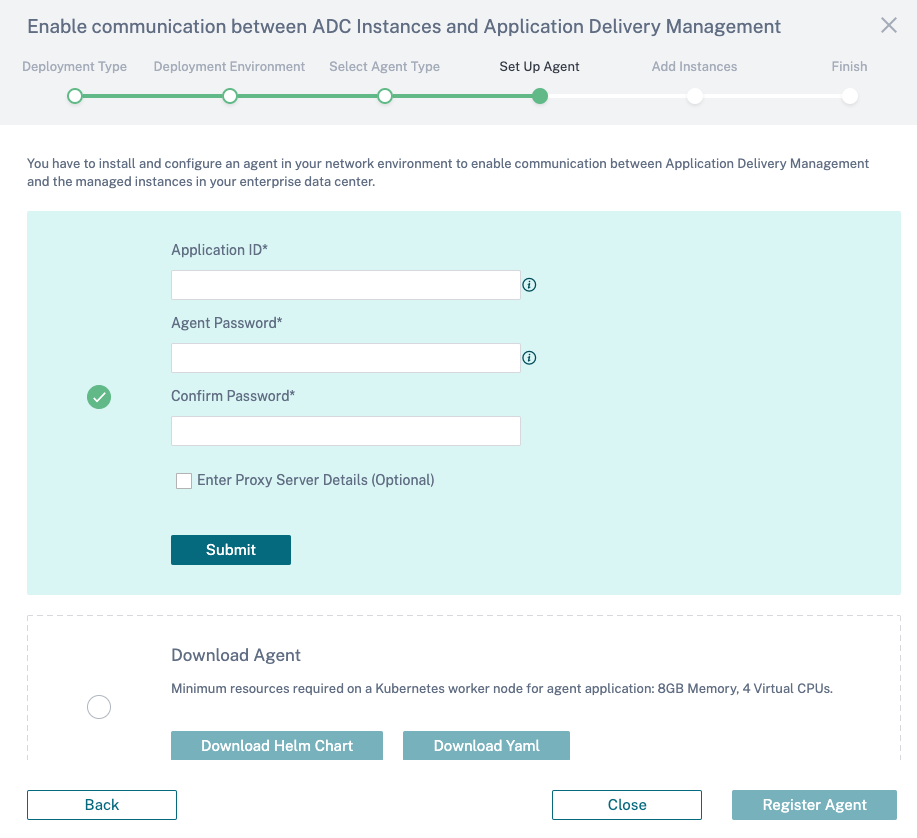
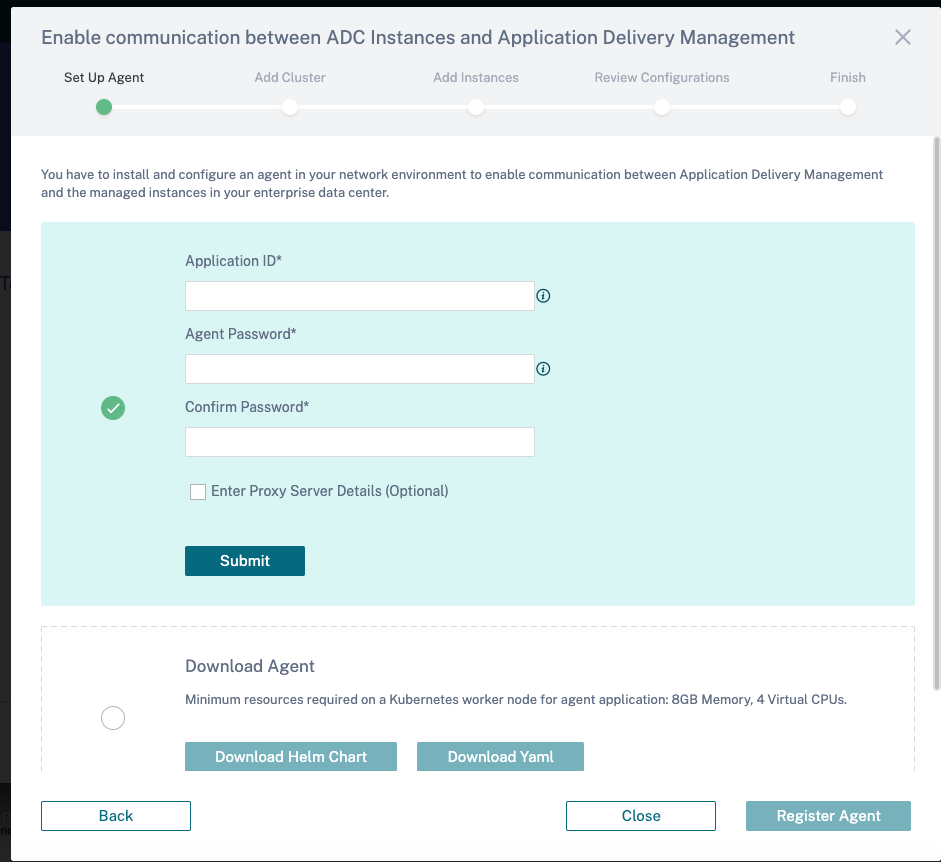
Updated the doc with new onboarding flow

diff --git a/servicegraph/README.md b/servicegraph/README.md
@@ -7,25 +7,23 @@ The aim of this example is to help visualising the request flow between differen
 
    [Prerequisites](#prerequisite)
 
-  A. [Deploy and register Citrix ADM Agent](#deploy-register-citrix-adm-agent)
+  A. [Service Graph Onboarding](#onboarding)
 
-  B. [Add Cluster in Citrix ADM](#register-adm-agent)
+  B. [Create Kubernetes Secret using Citrix ADM credentials ](#create-secret)
 
-  C. [Configuration for service graph in ADM](#config-adm)
+  C. [Deploy Netflix application on Kubernetes Cluster ](#deploy-application)
 
-  D. [Deploy Netflix application on Kubernetes Cluster ](#deploy-application)
+  D. [Citrix Cloud Native Dual Tier Topology ](#deploy-citrix-cloud-native-stack)
 
-  E. [Citrix Cloud Native Dual Tier Topology ](#deploy-citrix-cloud-native-stack)
+  E. [Send Traffic](#send-traffic)
 
-  F. [Send Traffic](#send-traffic)
+  F. [Visualize Servicegraph in Citrix ADM](#servicegraph)
 
-  G. [Visualize Servicegraph in Citrix ADM](#servicegraph)
+  G. [Tracing](#trace)
 
-  H. [Tracing](#trace)
+  H. [Clean Up the deployment](#clean-up)
 
-  I. [Clean Up the deployment](#clean-up)
-
-  J. [Debugging](#debugging)
+  I. [Debugging](#debugging)
 
 ## <a name="prerequisite">Prerequisites</a>
  - Citrix ADM. To start using Citrix ADM, you must first create a Citrix Cloud company account or join an existing one that someone else in your company has created. For detailed processes and instructions on how to proceed, see [Signing Up for Citrix Cloud](https://docs.citrix.com/en-us/citrix-cloud/overview/signing-up-for-citrix-cloud/signing-up-for-citrix-cloud). 
@@ -33,10 +31,10 @@ The aim of this example is to help visualising the request flow between differen
     To manage Citrix ADM with an Express account, follow [this](https://docs.citrix.com/en-us/citrix-application-delivery-management-service/getting-started.html#install-an-agent-as-a-microservice).
 
  - The [Kubernetes](https://kubernetes.io/) version 1.16 or later.
- - The Citrix ADC VPX with Version 13.0-76.31 or later.
+ - The Citrix ADC VPX with Version 13.0-76.29 or later.
  - The Citrix ADC VPX and the Kubernetes Cluster should be in same network.
 
-## <a name="deploy-register-citrix-adm-agent">A) Deploy and register Citrix ADM Agent</a>
+## <a name="onboarding">A) Service Graph Onboarding</a>
 You can deploy a Citrix ADM agent as a microservice in the Kubernetes cluster to view service graph in Citrix ADM. 
 
 Follow below steps:
@@ -59,21 +57,23 @@ Follow below steps:
 
     ![](images/choose-environment.png)
 
- 6. Choose `As a microservice` and click `Next`
+ 6. Choose `Microservices` and click `Next`
 
-    ![](images/select-agent-type.png)
+    ![](images/application-type.png)
 
- 7. Specify the following parameters:
+ 7.  In the Download Agent Microservice page, specify the following parameters:
 
-    a. **Application ID** : A string id to define the service for the agent in the Kubernetes cluster and distinguish 		this agent from other agents in the same cluster. Use lowercase alphanumeric characters only. Uppercase characters are not supported.
+      a. **Application ID** : A string id to define the service for the agent in the Kubernetes cluster and distinguish 		this agent from other agents in the same cluster. Use lowercase alphanumeric characters only. Uppercase characters are not supported.
 
-	b. **Agent Password** – Specify a password for ADM agent. This passoword will be used on onboarding CPX to ADM service through the agent.
+      b. **Agent Password** – Specify a password for ADM agent. This passoword will be used on onboarding CPX to ADM service through the agent.
 
-	c. **Confirm Password** – Specify the same password for confirmation.
+      c. **Confirm Password** – Specify the same password for confirmation.
+       
+      **Note**:You must not use the default password (nsroot).
 	
-    d. **Submit**
+      d. **Submit**
 
-    **NOTE** You can save Application ID and Agent Password, this will be used while creating secret and updating variables in the YAML file.
+      **NOTE** You can save Application ID and Agent Password, this will be used while creating secret and updating variables in the YAML file. 
 
       ![](images/agent-details.png)
 
@@ -81,27 +81,27 @@ Follow below steps:
 
     ![](images/download-agent-file.png)
 
- 9. Click **Close**.
+ 9. In the Kubernetes main mode, save the downloaded YAML file and run the following command to register the agent:
 
-    On the Kubernetes cluster:
+         kubectl create -f < YAML file >
+   
+      For example, kubectl create -f testing.yaml
+    
+      ![](images/agent-install.png) 
 
-        kubectl create -f <yaml file>
+      The agent is successfully created.
 
-    For example, `kubectl create -f myagent.yaml`
+ 10. Click **Register Agent**.
+   
+   ![](images/download-agent-file.png)
+ 
+    The page loads for a few seconds and displays the registered agent.
 
-    The agent is successfully created.
+ 11. Ensure if the agent is present in the list and click **Next**.
+  
+   ![](images/agent-list.png)
 
-    In Citrix ADM, navigate to Networks > Agents to see the agent status.
-
-    ![](images/agent-status.png)
-
-## <a name="register-adm-agent"> B) Add Cluster in Citrix ADM</a>
-
-To add cluster using Agent, follow the below steps:
-
- 1. Navigate to `Orchestration > Kubernetes > Cluster` in Citrix ADM. The Clusters page is displayed.
- 2. Click `Add`.
- 3. In the Add Cluster page, specify the following parameters:
+ 12. You must register the cluster. Click Add More Clusters and specify the following parameters::
 
       a. **Name** - Specify a name of your choice.
 
@@ -115,82 +115,70 @@ To add cluster using Agent, follow the below steps:
 		
       c. **Authentication Token** - Specify the authentication token. The authentication token is required to validate access for communication between Kubernetes cluster and Citrix ADM.
 
-      To generate an authentication token; 
-      On the Kubernetes master node:
+         To generate an authentication token; 
+         
+         On the Kubernetes master node:
 
-      i. Use the following YAML to create a service account:
+       i. Use the following YAML to create a service account:
 				
-        apiVersion: v1
-        kind: ServiceAccount
-        metadata:
-	        name: citrixadm-sa
+               apiVersion: v1
+               kind: ServiceAccount
+               metadata:
+	               name: citrixadm-sa
 
-      ii. Run `kubectl create -f <yaml file>`. The service account is created.
+       ii. Run `kubectl create -f <yaml file>`. The service account is created.
 
-      iii. Run `kubectl create clusterrolebinding clusterBinding --clusterrole=cluster-admin --serviceaccount=default:citrixadm-sa` to bind the cluster role to service account.
+       iii. Run `kubectl create clusterrolebinding clusterBinding --clusterrole=cluster-admin --serviceaccount=default:citrixadm-sa` to bind the cluster role to service account.
 
-      The service account now has the cluster-wide access. A token is automatically generated while creating the service account.
+            The service account now has the cluster-wide access. A token is automatically generated while creating the service account.
 
-      iv. Run `kubectl describe sa citrixadm-sa` to view the token.
+       iv. Run `kubectl describe sa citrixadm-sa` to view the token.
 
       ![](images/describe-sa.png)
 
-      v. To get the secret string, run `kubectl describe secret <token-name>`.
+       v. To get the secret string, run `kubectl describe secret <token-name>`.
 
       ![](images/describe-token.png)
 
-    d. Select the **agent** from the list.
+      d. Select the **agent** from the list.
     
-    **To get the agent IP**
+      e. Click **Create**.
 
-    Use `Application ID` mentioned in `Step A.7.a` to list the service IP for Citrix Agent.
-  
-        kubectl get svc <application-id> -o wide
-    
-    The IP mentioned under `Cluster-IP` is the service IP for the agent. Alternatively, you can navigate to `Networks > Agents` in Citrix ADM to view the agent IP.
+   ![](images/add-cluster.png)
 
-    e. Click **Create**.
+13. In the Clusters page, the cluster information is displayed. Click **Next**.
 
-     ![](images/addcluster.png)
+   ![](images/cluster-list.png)
+
+14. Configure the CPX and VPX instances, and click **Next**.
+
+   ![](images/vpx-cpx-list.png)
+
+   **NOTE** You can deploy Citrix ADCs in Dual Tier topology as mentioned in [Citrix Cloud Native Dual Tier Topology ](#deploy-citrix-cloud-native-stack)   
+
+15. Click **Next** to auto-license the virtual servers and to enable detailed web and TCP transactions.
+
+   ![](images/auto-license.png)
+
+16. The configurations are complete. Select **Service Graph** and click **Done**.
+
+   ![](images/final-page-onboarding.png)
 
 
-### Create Kubernetes Secret using Citrix ADM credentials
+## <a name="create-secret"> B) Create Kubernetes Secret using Citrix ADM credentials </a>
 
   To auto register Citrix ADC CPX in ADM for obtaining [servicegraph](https://docs.citrix.com/en-us/citrix-application-delivery-management-service/application-analytics-and-management/service-graph.html), you will have to create a Kubernetes secret using ADM Agent credentials. Create a Kubernetes secret with password you have provided during `Step A.7.b` using the following command:
 
     kubectl create secret generic admlogin --from-literal=username=nsroot --from-literal=password=<adm-password>
 
-## <a name="config-adm"> C) Configuration for service graph in ADM </a>
 
-After you add Kubernetes cluster in Citrix ADM, you must ensure to auto-select virtual servers for licensing. CPX virtual servers must be licensed to display data in service graph. To auto-select virtual servers:
-
- 1. Navigate to Accounts > Subscriptions in Citrix ADM.
-
- 2. Under Virtual Server License Summary, enable Auto-select Virtual Servers.
-
-    ![](images/auto-license.png)
-
-   After enable the auto-select virtual servers, change the Web Transaction Settings and TCP Transactions Settings to All.
-
-  1. Navigate to `Analytics > Settings`.  
-
-  2. The Settings page is displayed.
-
-  3. Click **Enable Features for Analytics**.
-
-  4. Under **Web Transaction Settings**, select **All**.
- 
-  5. Under **TCP Transactions Settings**, select **All**.
-
-      ![](images/tcp-web-settings.png)
-
-## <a name="deploy-application"> D) Deploy Netflix application on Kubernetes Cluster </a>
+## <a name="deploy-application"> C) Deploy Netflix application on Kubernetes Cluster </a>
 
 Run following to deploy Netflix application on your Kubernetes Cluster
 
     kubectl create -f https://raw.githubusercontent.com/citrix/cloud-native-getting-started/master/servicegraph/manifest/netflix.yaml
 
-## <a name="deploy-citrix-cloud-native-stack"> E) Citrix Cloud Native Dual Tier Topology </a>
+## <a name="deploy-citrix-cloud-native-stack"> D) Citrix Cloud Native Dual Tier Topology </a>
 
   Let's understand the Netflix application topology having Citrix ADC to deliver best user experience in North-South and East-West Load balancing.
 
@@ -214,7 +202,9 @@ Lets deploy the Netflix application in Service mesh lite deployment where
 
  - Tier 2 ADC - CPX to route East-West traffic from Netflix application.
 
-### Add Tier 1 ADC in Citrix ADM
+## <a name="add-tier1-adc-in-adm"> Add Tier 1 ADC in Citrix ADM </a>
+
+You can skip this step if you have added VPX in Step **A.14**.
 
 Citrix ADC VPX is used to ingress North-South traffic. To add Citrix ADC VPX in ADM follow below steps:
 
@@ -244,15 +234,17 @@ Citrix ADC VPX is used to ingress North-South traffic. To add Citrix ADC VPX in 
 
     h. **SNMP Version:** Select either SNMPv2 or SNMPv3 and do the following:
 
-    i. If you select SNMPv2, specify the **Community name** for authentication.
+      i. If you select SNMPv2, specify the **Community name** for authentication.
 
-    ii. If you select SNMPv3, specify the **Security Name** and **Security Level**. Based on the **security level**, select the **Authentication Type** and **Privacy Type**.
+      ii. If you select SNMPv3, specify the **Security Name** and **Security Level**. Based on the **security level**, select the **Authentication Type** and **Privacy Type**.
 
       ![](images/profile-snmp.png)
 
-#### To configure the Tier 1 ADC VPX using Citrix Ingress Controller (CIC):
+### To configure the Tier 1 ADC VPX using Citrix Ingress Controller (CIC):
 
-The Citrix ADC appliance needs to have system user account (non-default) with certain privileges so that Citrix ingress controller (CIC) can configure the Citrix ADC VPX. For instructions to create the system user account on Citrix ADC, see [Create System User Account for CIC in Citrix ADC](#create-system-user-account-for-cic-in-citrix-adc).
+The Citrix ADC appliance needs to have system user account (non-default) with certain privileges so that Citrix ingress controller (CIC) can configure the Citrix ADC VPX. 
+
+For instructions to create the system user account on Citrix ADC, see [Create System User Account for CIC in Citrix ADC](#create-system-user-account-for-cic-in-citrix-adc).
 
 Create a Kubernetes secret for the user name and password using the following command:
 
@@ -269,7 +261,14 @@ Update `NS_IP` under the deployment name `adc-netflix-cic`  `citrix-cloud-native
 
 **Note** Citrix ADC VPX and Kubernetes Cluster must be deployed in same network.
 
-### Deploying Tier-2 ADC CPX -
+**Update**  `server` in `endpoint` under `NS_ANALYTICS_CONFIG` with the Citrix ADM Agent POD IP in config map `adc-netflix-cic-configmap` in `citrix-cloud-native.yaml` file .
+
+To get the Citrix ADM Agent Pod IP use below command.
+
+    kubectl get endpoints <Application-id> -o wide
+
+
+## Deploying Tier-2 ADC CPX -
 
 Citrix ADC CPX is used to route North-South traffic from Tier 1 ADC to frontend Netflix microservice application and route East-West traffic from Netflix microservices  
 
@@ -287,24 +286,10 @@ The IP mentioned under `Cluster-IP` is the service IP for the agent and use this
 
   iii. "LS_IP"
 
+**NOTE** Make sure you have created Kubernetes secret as mentioned in [Create Kubernetes Secret using Citrix ADM credentials](#create-secret)
 
-Update Fingerprint in below environment variable in `citrix-cloud-native.yaml` 
- 
-  i. "NS_MGMT_FINGER_PRINT"
 
-#### To get the `Citrix ADM agent Fingerprint`
-
-Navigate to `Networks > Agents` in Citrix ADM. Select the Agent from the list and click the `View Fingerprint`.
-
-   ![](images/fingerprint.png)
-
-**Update**  `server` in `endpoint` under `NS_ANALYTICS_CONFIG` with the Citrix ADM Agent POD IP in config map `adc-netflix-cic-configmap` in `citrix-cloud-native.yaml` file .
-
-To get the Citrix ADM Agent Pod IP use below command.
-
-    kubectl get endpoints <Application-id> -o wide
-
-After updating above environment variables, deploy CIC for Tier-1 VPX and tier-2 CPX using
+After updating all the environment variables, deploy CIC for Tier-1 VPX and tier-2 CPX using
 
     kubectl apply -f citrix-cloud-native.yaml
 
@@ -322,7 +307,7 @@ After updating above environment variables, deploy CIC for Tier-1 VPX and tier-2
     kubectl create -f https://raw.githubusercontent.com/citrix/cloud-native-getting-started/master/servicegraph/manifest/smlite_services.yaml
 
 
-## <a name="send-traffic"> F) Send Traffic </a>
+## <a name="send-traffic"> E) Send Traffic </a>
   Send traffic using helper script
 
     wget https://raw.githubusercontent.com/citrix/cloud-native-getting-started/master/servicegraph/manifest/traffic.sh
@@ -331,7 +316,7 @@ Provide VIP which was used to expose the Netflix app in `traffic.sh` and start t
 
     nohup sh traffic.sh <VIP> > log &
 
-## <a name="servicegraph"> G) Visualize Service Graph in Citrix ADM</a>
+## <a name="servicegraph"> F) Visualize Service Graph in Citrix ADM</a>
 Before visualizing the Service Graph, you can check if the vservers configured in ADC are properly discovered and licensed. For this check the section [debugging](#debugging)
 
 In ADM navigate  `Application > Service Graph > MicroServices` .
@@ -345,13 +330,13 @@ We can view **transation logs** as well in the servicegraph.
 
   ![](images/transactionlog.png)
 
-## <a name="trace">H) Tracing </a>
+## <a name="trace">G) Tracing </a>
 
 A user can select **See Trace Details** to visualize the entire trace in the form of a chart of all transactions which are part of the trace.
 
   ![](images/tracing.png)
 
-## <a name="clean-up">I) Clean Up the deployment </a>
+## <a name="clean-up">H) Clean Up the deployment </a>
 
     kubectl delete -f https://raw.githubusercontent.com/citrix/cloud-native-getting-started/master/servicegraph/manifest/cpx_ingress.yaml
     kubectl delete -f https://raw.githubusercontent.com/citrix/cloud-native-getting-started/master/servicegraph/manifest/smlite_services.yaml
@@ -361,7 +346,7 @@ A user can select **See Trace Details** to visualize the entire trace in the for
     kubectl delete secret nslogin
     kubectl delete secret admlogin
 
-## <a name="debugging">J) Debugging </a>
+## <a name="debugging">I) Debugging </a>
 
 Service Graph will not be populated if vserver configuration of Tier 2 ADC are not populated in ADM. Also, the vserver in Tier-1 ADC need to be licensed. Following sections will guide on licensing vserver in Tier-1 Citrix ADC VPX and discovering the vserver configuration on Tier 2 Citrix ADC CPX.
 
